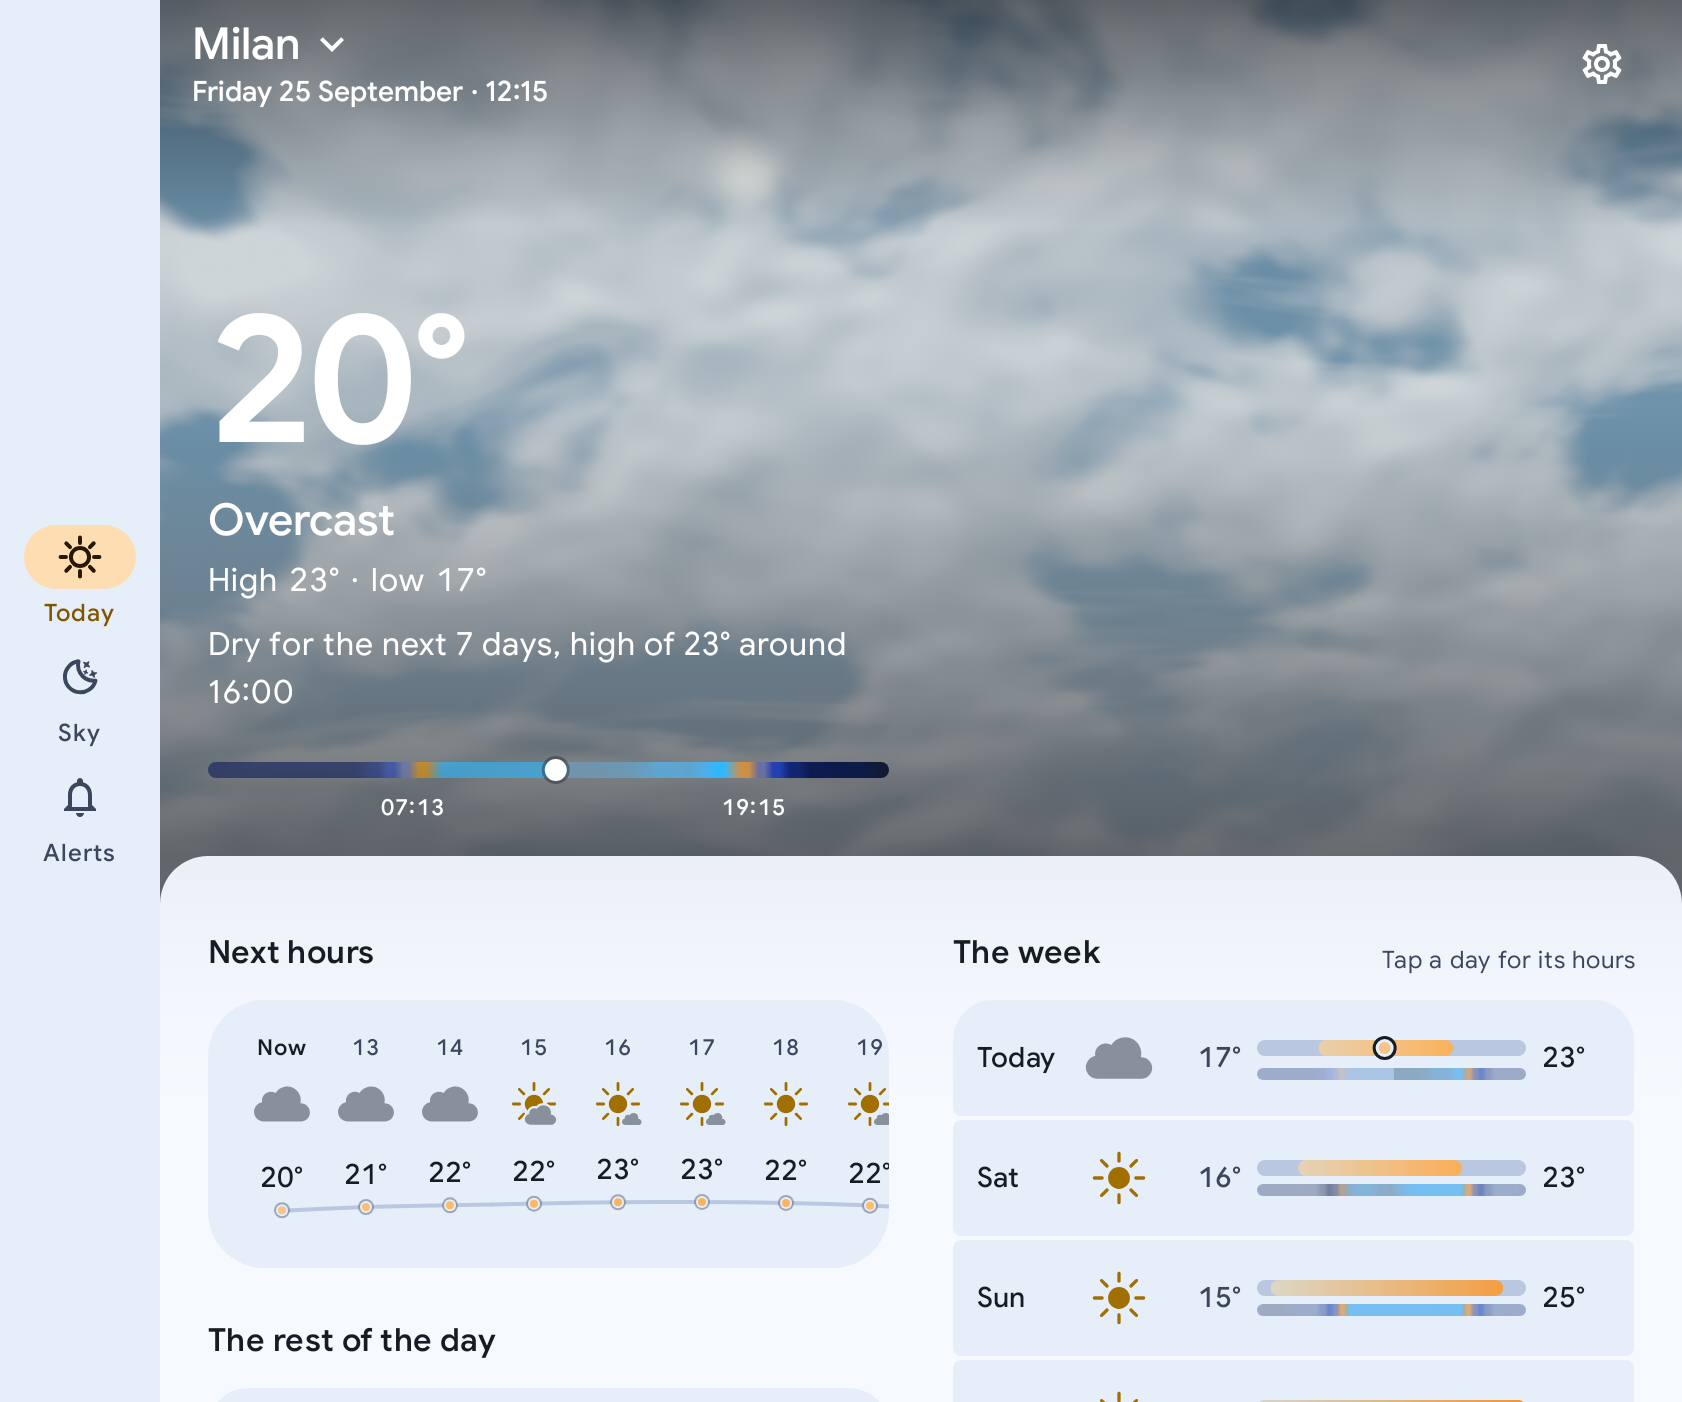
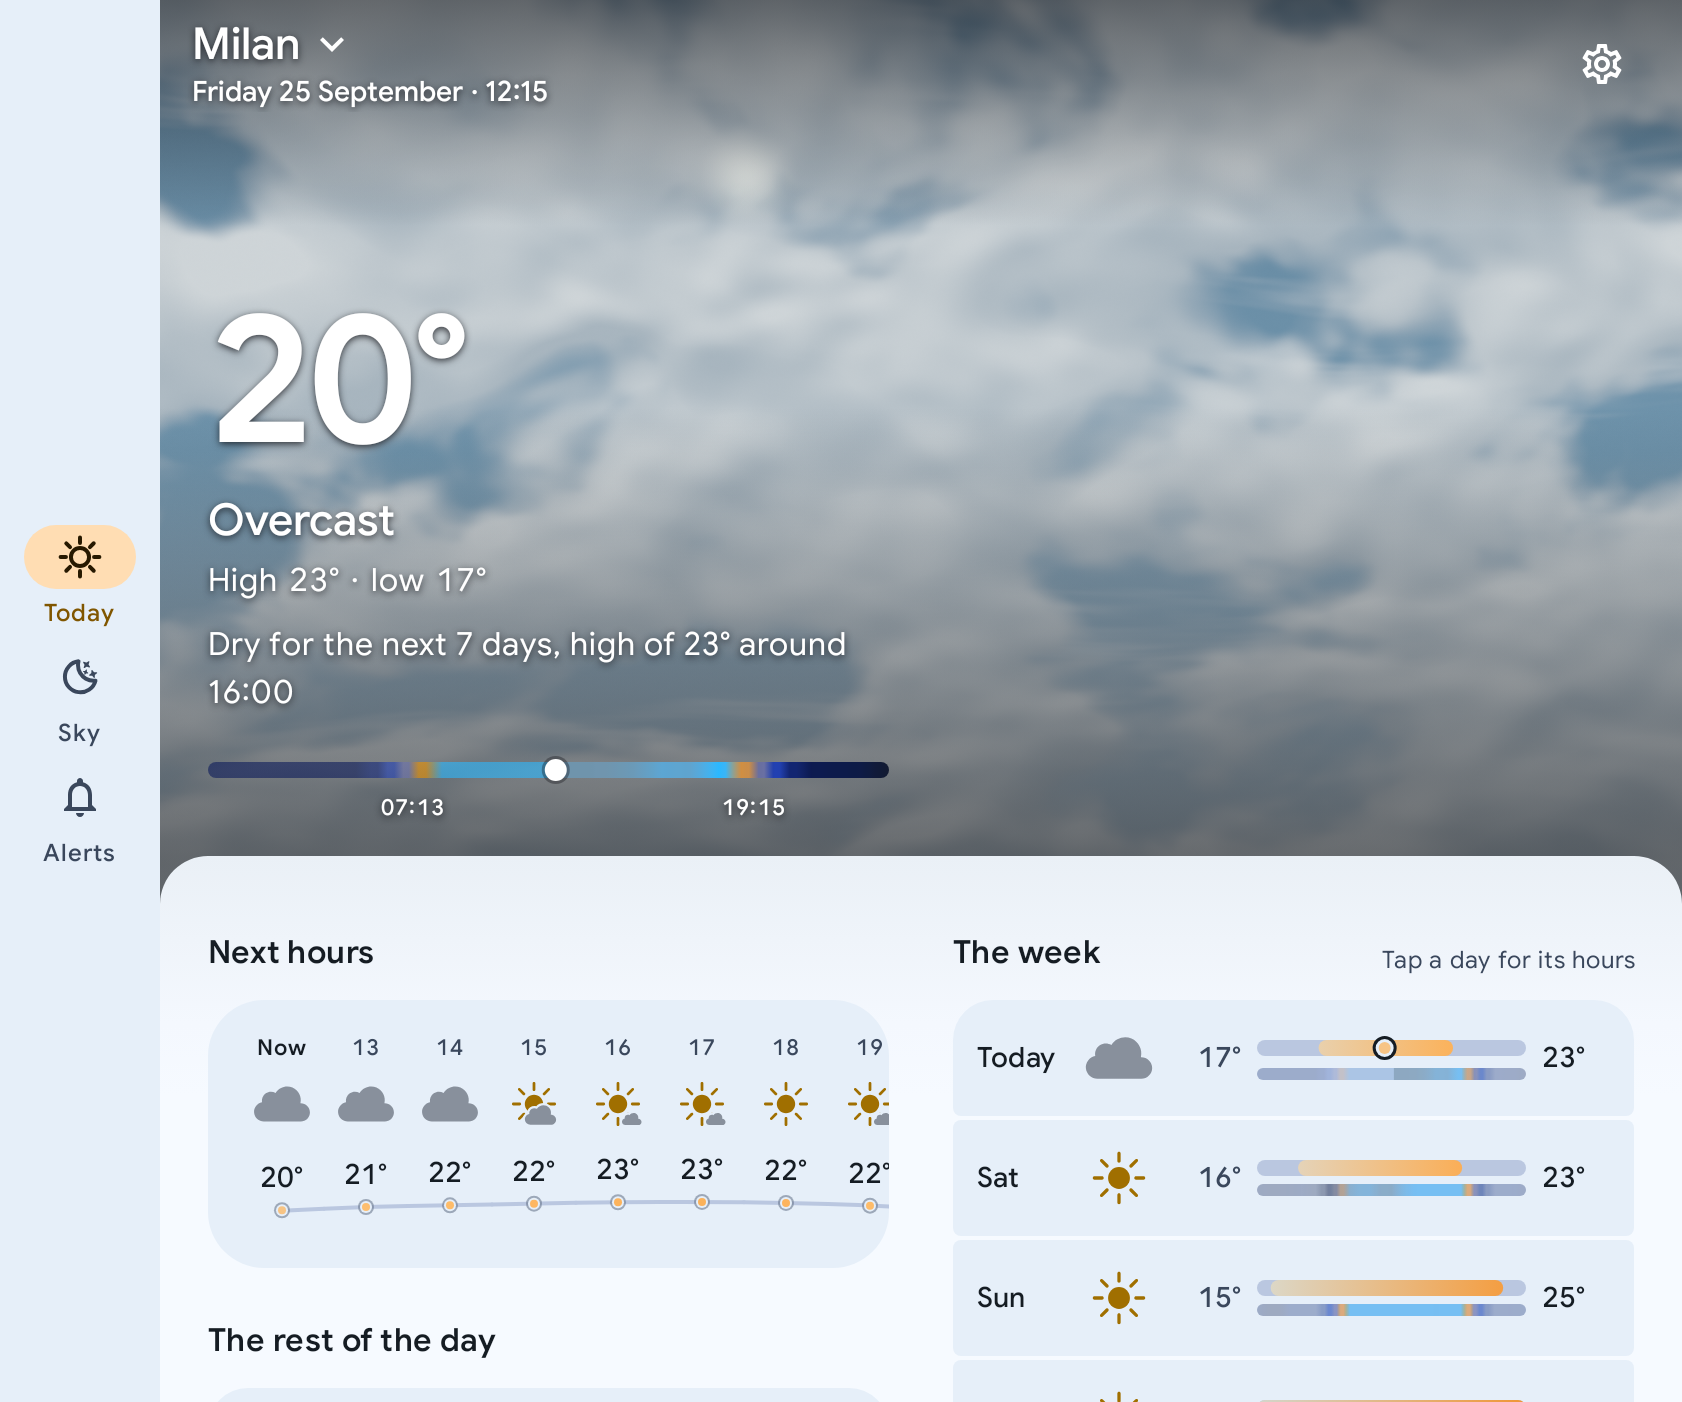
Sky: a halo under every text on the canvas, the scrim as it is
Step 7 of the sky review (PLANNING, 19 ott 2026), decided on a measurement:
a mock-up of the hero over the brightest sky, with the contrast read on the
pixels just outside the glyphs, found the figure at 2.30:1 on a clear noon
and the scrim's 5.27:1 holding only where the scrim is full. A lighter scrim
with a halo lost the ribbon's times, so the scrim stays and every text on the
canvas wears a halo of the scrim's colour, 3 dp of blur: the figure goes over
3:1 and the white glyphs part from the white cloud tops the deck now draws.

diff --git a/app/src/main/kotlin/com/callbackdev/chiaro/ui/today/TodayHero.kt b/app/src/main/kotlin/com/callbackdev/chiaro/ui/today/TodayHero.kt
@@ -45,6 +45,7 @@ import com.callbackdev.chiaro.ui.format.Formats
 import com.callbackdev.chiaro.ui.shell.PageColumns
 import com.callbackdev.chiaro.ui.theme.SkyGradient
 import com.callbackdev.chiaro.ui.theme.SkyPalette
+import com.callbackdev.chiaro.ui.theme.skyInkShadow
 import com.callbackdev.chiaro.ui.theme.tabular
 import java.time.format.DateTimeFormatter
 import java.util.Locale
@@ -194,9 +195,13 @@ internal fun CanvasHeader(
                 //
                 // With a [figure] the number also tells the page where it rests, so the bar
                 // knows when it has gone under it (DESIGN §8.1e).
+                // Every line wears the canvas' halo (DESIGN §3.6, step 7 of the sky review,
+                // 19 ott 2026): the figure sat at 2.3:1 on a clear noon, and the deck now
+                // draws white cloud tops under white glyphs.
+                val halo = skyInkShadow()
                 Text(
                     text = Formats.temperature(current.tempC, units.temperature, locale),
-                    style = heroStyle(),
+                    style = heroStyle().copy(shadow = halo),
                     color = SkyPalette.Ink,
                     modifier = if (figure == null) {
                         Modifier
@@ -215,7 +220,7 @@ internal fun CanvasHeader(
                 // own line already leaves air under its digits.
                 Text(
                     text = stringResource(WeatherText.condition(current.condition.wmoCode)),
-                    style = MaterialTheme.typography.titleLarge,
+                    style = MaterialTheme.typography.titleLarge.copy(shadow = halo),
                     color = SkyPalette.Ink
                 )
                 // The day's range under the word (15 ott 2026), the number a reader looks for
@@ -247,7 +252,7 @@ internal fun CanvasHeader(
                         text = figures.mapIndexed { i, figure ->
                             if (i == 0) figure else figure.replaceFirstChar { it.lowercase(locale) }
                         }.joinToString(" · "),
-                        style = MaterialTheme.typography.bodyLarge.tabular(),
+                        style = MaterialTheme.typography.bodyLarge.tabular().copy(shadow = halo),
                         color = SkyPalette.Ink,
                         modifier = Modifier.padding(top = HeroLineGap)
                     )
@@ -258,7 +263,7 @@ internal fun CanvasHeader(
                 if (current.estimated) {
                     Text(
                         text = stringResource(R.string.estimate_hero),
-                        style = MaterialTheme.typography.bodyMedium,
+                        style = MaterialTheme.typography.bodyMedium.copy(shadow = halo),
                         color = SkyPalette.Ink,
                         modifier = Modifier.padding(top = HeroLineGap)
                     )
@@ -275,7 +280,7 @@ internal fun CanvasHeader(
                 headlineText(content.headline, timeFmt, units)?.let { sentence ->
                     Text(
                         text = sentence,
-                        style = MaterialTheme.typography.bodyLarge,
+                        style = MaterialTheme.typography.bodyLarge.copy(shadow = halo),
                         color = SkyPalette.Ink,
                         modifier = Modifier.padding(top = HeroGroupGap)
                     )
@@ -294,6 +299,7 @@ internal fun CanvasHeader(
                     RibbonTimes(
                         times = times,
                         color = SkyPalette.Ink,
+                        shadow = halo,
                         modifier = Modifier.padding(top = HeroLineGap)
                     )
                 }
@@ -424,11 +430,17 @@ internal fun ribbonTimes(
 /** Labels placed under the fractions of the width they name, centred there and kept
  * inside the row. */
 @Composable
-internal fun RibbonTimes(times: List<Pair<Float, String>>, color: Color, modifier: Modifier = Modifier) {
+internal fun RibbonTimes(
+    times: List<Pair<Float, String>>,
+    color: Color,
+    modifier: Modifier = Modifier,
+    /** The canvas' halo under the labels, when they stand on the sky. */
+    shadow: androidx.compose.ui.graphics.Shadow? = null
+) {
     androidx.compose.ui.layout.Layout(
         content = {
             times.forEach { (_, text) ->
-                Text(text = text, style = MaterialTheme.typography.labelSmall.tabular(), color = color)
+                Text(text = text, style = MaterialTheme.typography.labelSmall.tabular().copy(shadow = shadow), color = color)
             }
         },
         modifier = modifier

diff --git a/app/src/main/kotlin/com/callbackdev/chiaro/ui/theme/SkyPalette.kt b/app/src/main/kotlin/com/callbackdev/chiaro/ui/theme/SkyPalette.kt
@@ -1,9 +1,14 @@
 package com.callbackdev.chiaro.ui.theme
 
+import androidx.compose.runtime.Composable
 import androidx.compose.runtime.Immutable
 import androidx.compose.runtime.staticCompositionLocalOf
+import androidx.compose.ui.geometry.Offset
 import androidx.compose.ui.graphics.Color
+import androidx.compose.ui.graphics.Shadow
 import androidx.compose.ui.graphics.lerp
+import androidx.compose.ui.platform.LocalDensity
+import androidx.compose.ui.unit.dp
 import kotlin.math.abs
 
 /**
@@ -254,7 +259,34 @@ class SkyPalette internal constructor(
          * dots. The selected dot is [Ink]; this one only has to be told apart from it.
          */
         val InkQuiet = Color.White.copy(alpha = 0.4f)
+
+        /**
+         * The halo under every text on the canvas (step 7 of the sky review, 19 ott 2026):
+         * the scrim's own colour at [InkHaloAlpha], blurred by [InkHaloBlur] round the glyphs
+         * and dropped [InkHaloDrop] under them ([skyInkShadow]). Measured on a mock-up of the
+         * hero over the brightest sky, with the contrast read on the pixels just outside the
+         * glyphs: the scrim's 5.27:1 holds where the scrim is full, the ribbon's times, and
+         * every line above sits on its ramp, the 88sp figure at 2.30:1 on a clear noon, under
+         * the 3:1 a large text needs. The halo raises the figure over 3:1 and the lines a
+         * little; a lighter scrim with a halo instead lost the ribbon's times (3.0 to 4.1:1),
+         * because a blur under a 1.5dp stroke keeps a third of its strength. So the scrim
+         * stays as it is and the halo adds to it: function, like the scrim, not decoration.
+         */
+        const val InkHaloAlpha = 0.8f
+        val InkHaloBlur = 3.dp
+        val InkHaloDrop = 1.dp
     }
+}
+
+/** The canvas text's halo as a text shadow, in this density's pixels: [SkyPalette.ScrimColor]
+ * at [alpha], blurred and dropped by [SkyPalette.InkHaloBlur] and [SkyPalette.InkHaloDrop]. */
+@Composable
+fun skyInkShadow(alpha: Float = SkyPalette.InkHaloAlpha): Shadow = with(LocalDensity.current) {
+    Shadow(
+        color = SkyPalette.ScrimColor.copy(alpha = alpha),
+        offset = Offset(0f, SkyPalette.InkHaloDrop.toPx()),
+        blurRadius = SkyPalette.InkHaloBlur.toPx()
+    )
 }
 
 /** The sky table the app is currently painting with, so a composable deep in the tree

diff --git a/app/src/main/kotlin/com/callbackdev/chiaro/ui/today/PlaceHeader.kt b/app/src/main/kotlin/com/callbackdev/chiaro/ui/today/PlaceHeader.kt
@@ -141,7 +141,10 @@ internal fun PlaceHeader(
     dotInactive: Color,
     modifier: Modifier = Modifier,
     compactVisible: Boolean = false,
-    compact: (@Composable () -> Unit)? = null
+    compact: (@Composable () -> Unit)? = null,
+    /** The canvas' halo under the name and the hour while the row stands on the sky
+     * (DESIGN §3.6, 19 ott 2026); null on the paper. */
+    shadow: androidx.compose.ui.graphics.Shadow? = null
 ) {
     val spoken = if (isGps) stringResource(R.string.header_gps_desc, title) else title
     val switcher = stringResource(R.string.place_switcher_action)
@@ -190,7 +193,7 @@ internal fun PlaceHeader(
                         }
                         Text(
                             title,
-                            style = MaterialTheme.typography.titleLarge,
+                            style = MaterialTheme.typography.titleLarge.copy(shadow = shadow),
                             color = contentColor,
                             // One line when the bar also carries the temperature: a name
                             // that wrapped under it would push the bar taller at every scroll.
@@ -217,7 +220,7 @@ internal fun PlaceHeader(
                     localNow?.let {
                         FittingText(
                             candidates = it,
-                            style = MaterialTheme.typography.labelLarge,
+                            style = MaterialTheme.typography.labelLarge.copy(shadow = shadow),
                             color = contentColor
                         )
                     }

diff --git a/app/src/main/kotlin/com/callbackdev/chiaro/ui/today/TodayScreen.kt b/app/src/main/kotlin/com/callbackdev/chiaro/ui/today/TodayScreen.kt
@@ -453,6 +453,13 @@ internal fun ContentState(
         animationSpec = crossfade,
         label = "place row dots"
     )
+    // The canvas' halo under the row's text while it stands on the sky (DESIGN §3.6, 19 ott
+    // 2026), fading with the ink on the same crossfade so it never pops on or off.
+    val headerHalo by androidx.compose.animation.core.animateFloatAsState(
+        targetValue = if (atTop) SkyPalette.InkHaloAlpha else 0f,
+        animationSpec = barCrossfade<Float>(reduced),
+        label = "place row halo"
+    )
     // The status bar shows what is behind it, and what is behind it is this bar: the sky at
     // rest, white icons; the page once scrolled, the theme's.
     LaunchedEffect(isCurrent, atTop) { if (isCurrent) onCanvasBehindBar(atTop) }
@@ -824,6 +831,7 @@ internal fun ContentState(
             onOpenSettings = onOpenSettings,
             contentColor = headerInk,
             dotInactive = headerDotInk,
+            shadow = if (headerHalo > 0.01f) com.callbackdev.chiaro.ui.theme.skyInkShadow(headerHalo) else null,
             compactVisible = heroGone,
             compact = {
                 // Whole degrees, like every other temperature below the hero: the bar is a

diff --git a/app/src/main/kotlin/com/callbackdev/chiaro/ui/settings/SettingsScreen.kt b/app/src/main/kotlin/com/callbackdev/chiaro/ui/settings/SettingsScreen.kt
@@ -649,14 +649,16 @@ private fun AppearancePreview(settings: AppSettings) {
                         .align(Alignment.BottomStart)
                         .padding(16.dp)
                 ) {
+                    // With the canvas' halo, as on Today (DESIGN §3.6, 19 ott 2026).
+                    val halo = com.callbackdev.chiaro.ui.theme.skyInkShadow()
                     Text(
                         text = Formats.temperature(PreviewTempC, settings.units.temperature, locale),
-                        style = LocalChiaroType.current.heroTemperature.copy(fontSize = 44.sp, lineHeight = 48.sp),
+                        style = LocalChiaroType.current.heroTemperature.copy(fontSize = 44.sp, lineHeight = 48.sp, shadow = halo),
                         color = SkyPalette.Ink
                     )
                     Text(
                         text = stringResource(com.callbackdev.chiaro.ui.today.WeatherText.condition(PreviewCode)),
-                        style = MaterialTheme.typography.titleMedium,
+                        style = MaterialTheme.typography.titleMedium.copy(shadow = halo),
                         color = SkyPalette.Ink
                     )
                 }

diff --git a/PLANNING.md b/PLANNING.md
@@ -14828,7 +14828,7 @@ vetro).
   magnitudine pesa pochi kilobyte: le stelle disegnate sono quelle che ci sono, con la magnitudine
   nella grandezza. Con lo stesso passo l'angolo del lembo luminoso della luna, calcolabile dalle
   posizioni di sole e luna (oggi il terminatore è sempre verticale).
-- [ ] **7. Lo scrim**, da decidere con il committente: misurare il contratto di §3.6 sul rettangolo
+- [x] **7. Lo scrim**, deciso sulla misura (vedi sotto); era da decidere con il committente: misurare il contratto di §3.6 sul rettangolo
   del testo e non su tutta la larghezza (una scrim che sfuma anche in orizzontale), oppure un'ombra
   morbida sul testo, così la metà bassa del cielo torna chiara. Nessuna delle due è gratis: la prima
   cambia `ScrimContractTest`, la seconda il modo in cui il contratto si misura.
@@ -15041,3 +15041,49 @@ variante B) reso vecchio contro nuovo su otto cieli. Immagini del README rigener
 `widget-day-arc` (il cielo del widget sotto le nuvole è un filo più piatto: 22 635 px diversi, 17
 livelli al massimo, invisibile; `widgets` identica). Suite completa (748 app debug con i 14 screenshot
 saltati, 700 release, i moduli core invariati) e lint con 0 errori.
+
+### Passo 7: lo scrim, deciso sulla misura (19 ott 2026)
+
+Il committente ha lasciato la decisione a chi scrive, «in base a quello che graficamente è
+migliore». Decisa sulla misura e non sul gusto: un mockup in NumPy e PIL del canvas di Oggi
+(Roboto, le righe dell'hero dove le mette la pagina) sopra il cielo più chiaro, un mezzogiorno
+sereno e uno al 25% di cumuli, con il contrasto letto **sui pixel subito fuori da ogni glifo**, che
+è dove un testo si legge, per quattro gruppi: la cifra, la parola, le righe, gli orari del nastro.
+
+**Cosa ha detto la misura.** Con lo scrim com'è (0,55 in fondo, rampa dal 45% al 93% del canvas),
+senza alone, sul mezzogiorno sereno: cifra **2,30:1** (il pavimento del testo grande è 3), parola
+2,85, righe 3,27, orari del nastro 5,28. Il contratto di §3.6 tiene dove lo scrim è pieno, cioè sugli
+orari in fondo; ogni riga sopra sta sulla rampa. Con uno scrim più leggero (0,30-0,40) più un alone
+sfocato sul testo (2-4 dp, nero al 60-80%): cifra 3,1 (meglio), parola e righe 2,7-2,9 (uguali o
+peggio), orari 3,0-4,1 (**sotto il pavimento**). Con la rampa che parte più in basso (60% o 70%)
+parola e righe peggiorano ancora. L'alone aiuta la cifra, poco i tratti sottili: sotto un tratto di
+1,5 dp una sfocatura lascia un terzo della sua forza.
+
+- [x] **Lo scrim resta com'è**, geometria e alfa: il contratto di §3.6, i suoi numeri e
+  `PaletteDocTest` non si muovono. La metà bassa affumicata è il prezzo del testo piccolo in fondo, e
+  la misura dice che più leggero non si leggerebbe.
+- [x] **Un alone su ogni testo del canvas** (`skyInkShadow`: il colore dello scrim all'80%, sfocato
+  di 3 dp, 1 dp più in basso): la cifra, la parola, le righe e gli orari dell'hero, la riga del luogo
+  quando sta sul cielo, l'anteprima delle Impostazioni. Porta la cifra sopra il 3:1 del testo grande
+  e stacca il bianco del testo dalle cime bianche che il banco del passo 3 ora disegna sotto di esso.
+  È funzione e non decorazione, come lo scrim: aggiunge contrasto, non toglie cielo.
+
+**Decisioni e deviazioni.** *Un'alternativa non presa*: portare gli orari del nastro fuori dal
+cielo, sul foglio di carta sotto, libererebbe lo scrim in fondo fino a circa 0,3 e mostrerebbe la
+metà bassa del cielo; è un cambio di layout dell'hero, da decidere con il committente e non da soli.
+*Il contratto non cambia*: l'alone si somma allo scrim e non lo sostituisce, quindi il caso peggiore
+misurato da `ScrimContractTest` resta quello; la misura sui glifi vive in PLANNING e nello script del
+mockup, perché un test Kotlin che disegni il testo vero sul cielo vero è un lavoro a sé.
+
+**Da verificare sul telefono.** L'alone non deve leggersi come un'ombra: a 3 dp e 80% è un velo
+scuro attorno ai tratti, visibile solo dove il cielo è chiaro; e la cifra su un mezzogiorno sereno.
+
+**Come è stato verificato.** Il mockup (`scrim_mock.py` nello scratchpad della sessione: il cielo del
+port NumPy, Roboto dai font di layoutlib, le righe dove le mette Oggi, il contrasto letto sull'anello
+di pixel subito fuori dai glifi) su otto varianti: scrim com'è; 0,30, 0,35 e 0,40 con alone da 2 a
+4 dp; rampa dal 60% e dal 70% con alone; 0,50 dal 55% con alone. `NoRawColorTest` (l'alone è il
+colore dello scrim, in `ui/theme`), `ScrimContractTest` e `PaletteDocTest` invariati e verdi,
+`HeroInBarTest` e `TodayAgendaTest` con la riga del luogo che prende l'alone. Immagini del README
+rigenerate e guardate: `today-now`, `today-foldable` (la cifra si stacca dalle cime delle nuvole, la
+riga del luogo e gli orari con il velo) e `settings`; le altre identiche. Suite completa (748 app
+debug con i 14 screenshot saltati, 700 release) e lint con 0 errori.

diff --git a/DESIGN.md b/DESIGN.md
@@ -565,6 +565,26 @@ secondary line is set apart by its size (`bodyLarge`, `bodyMedium`, `labelSmall`
 (`SkyPalette.InkQuiet`), a mark and not text. `ScrimContractTest` pins both halves: the thinner
 whites fail, and no line under `ui/today/` names a white of its own.
 
+**A halo under every line, and the scrim as it is** (step 7 of the sky review, 19 ott 2026,
+decided on a measurement the committente delegated). The numbers above hold where the scrim
+is full, which is the bottom of the canvas: the ribbon's clock times. Every line above them
+sits on the scrim's ramp, and a mock-up of the hero over the brightest sky, with the contrast
+read on the pixels just outside the glyphs (Roboto, the lines where Today lays them), found
+the 88sp figure at **2.30:1** on a clear noon, the word at 2.85, the lines at 3.27, the times
+at 5.28. A lighter scrim with a blurred halo on the text showed more sky and raised the figure
+to 3.1, but took the times down to 3.0 to 4.1 and the lines with them: under a 1.5dp stroke a
+blur keeps a third of its strength, so the halo helps the big figure and little else. So the
+scrim does not move, and every text on the canvas wears a **halo** besides: the scrim's own
+colour at 0.8, blurred by 3dp, dropped 1dp (`SkyPalette.InkHaloAlpha`, `InkHaloBlur`,
+`InkHaloDrop`, `skyInkShadow`), on the hero's figure, word, lines and clock times, on the
+place row while it stands on the sky (fading with its ink), and on the Settings preview. It
+brings the figure over the 3:1 a large text needs and sets the white glyphs apart from the
+white cloud tops the deck draws since §3.9's self-shadow. Function, like the scrim, not
+decoration; it adds to the contract and replaces none of it, which is why the numbers above
+and `ScrimContractTest` are untouched. The one alternative that would free the lower half of
+the sky, the clock times off the canvas and onto the paper, is a layout decision for the
+committente, not taken here.
+
 Those three numbers are **SRC_OVER in sRGB values** — `scrim × α + sky × (1 − α)`, which
 is what the brush does — held at the 8 bits per channel the framebuffer holds. They were
 re-measured in the Fase 9 pass and two of them moved: the section had quoted 5.29 / 4.58
